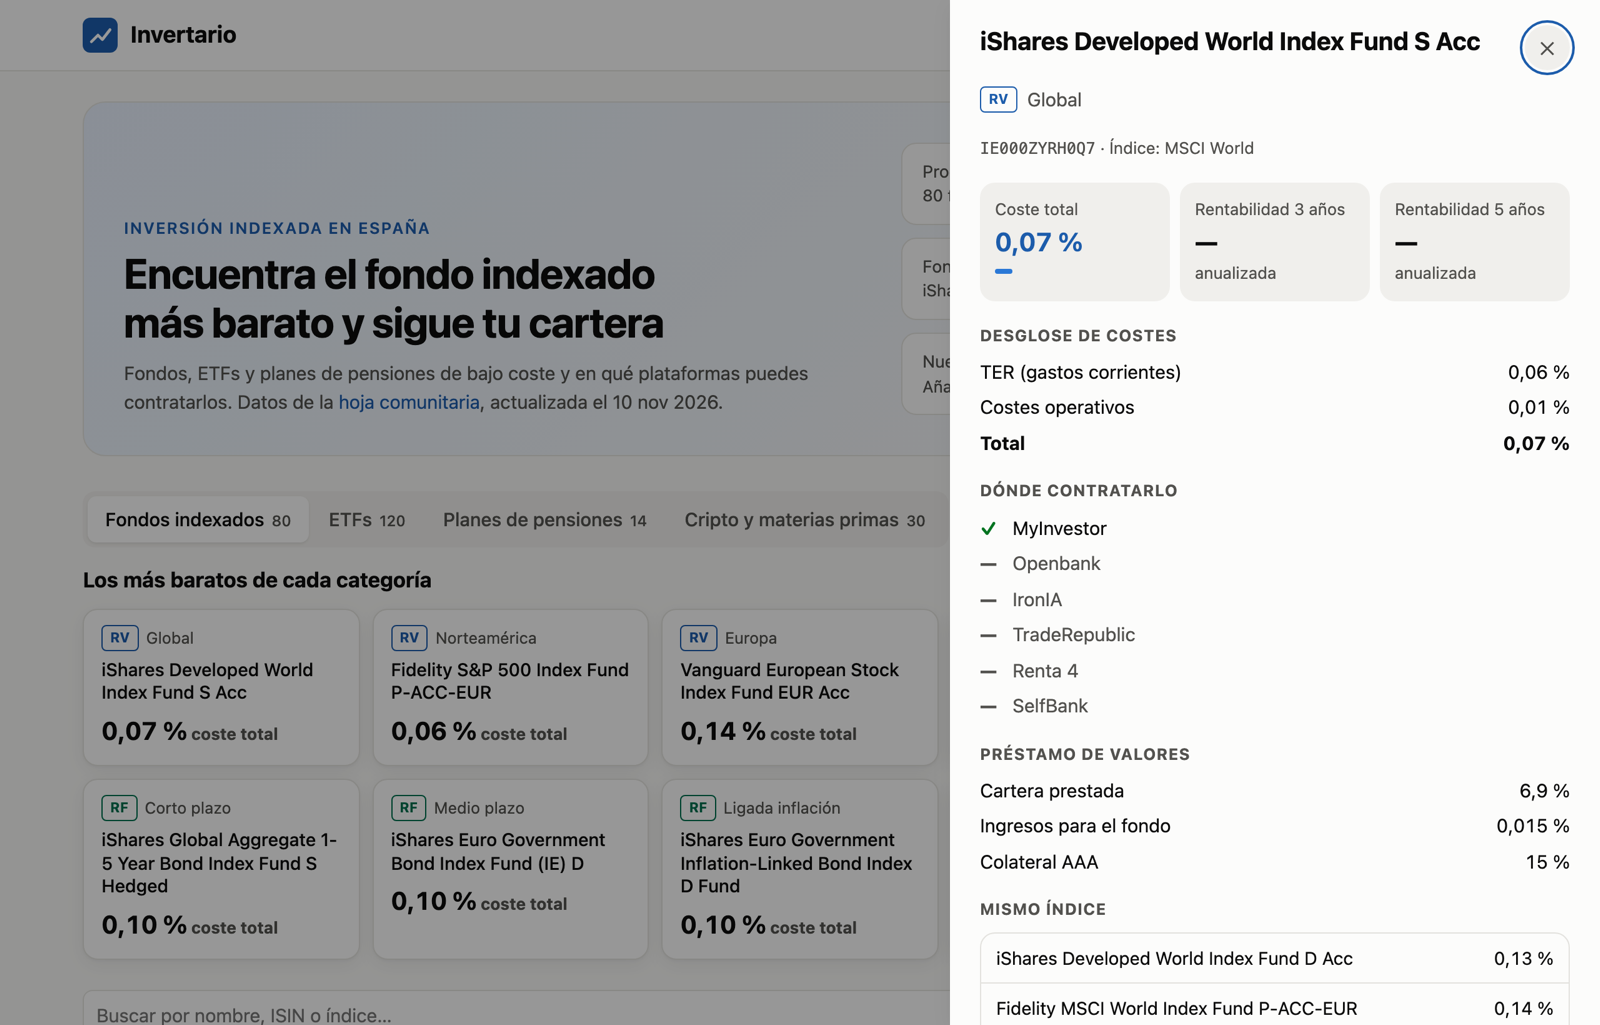
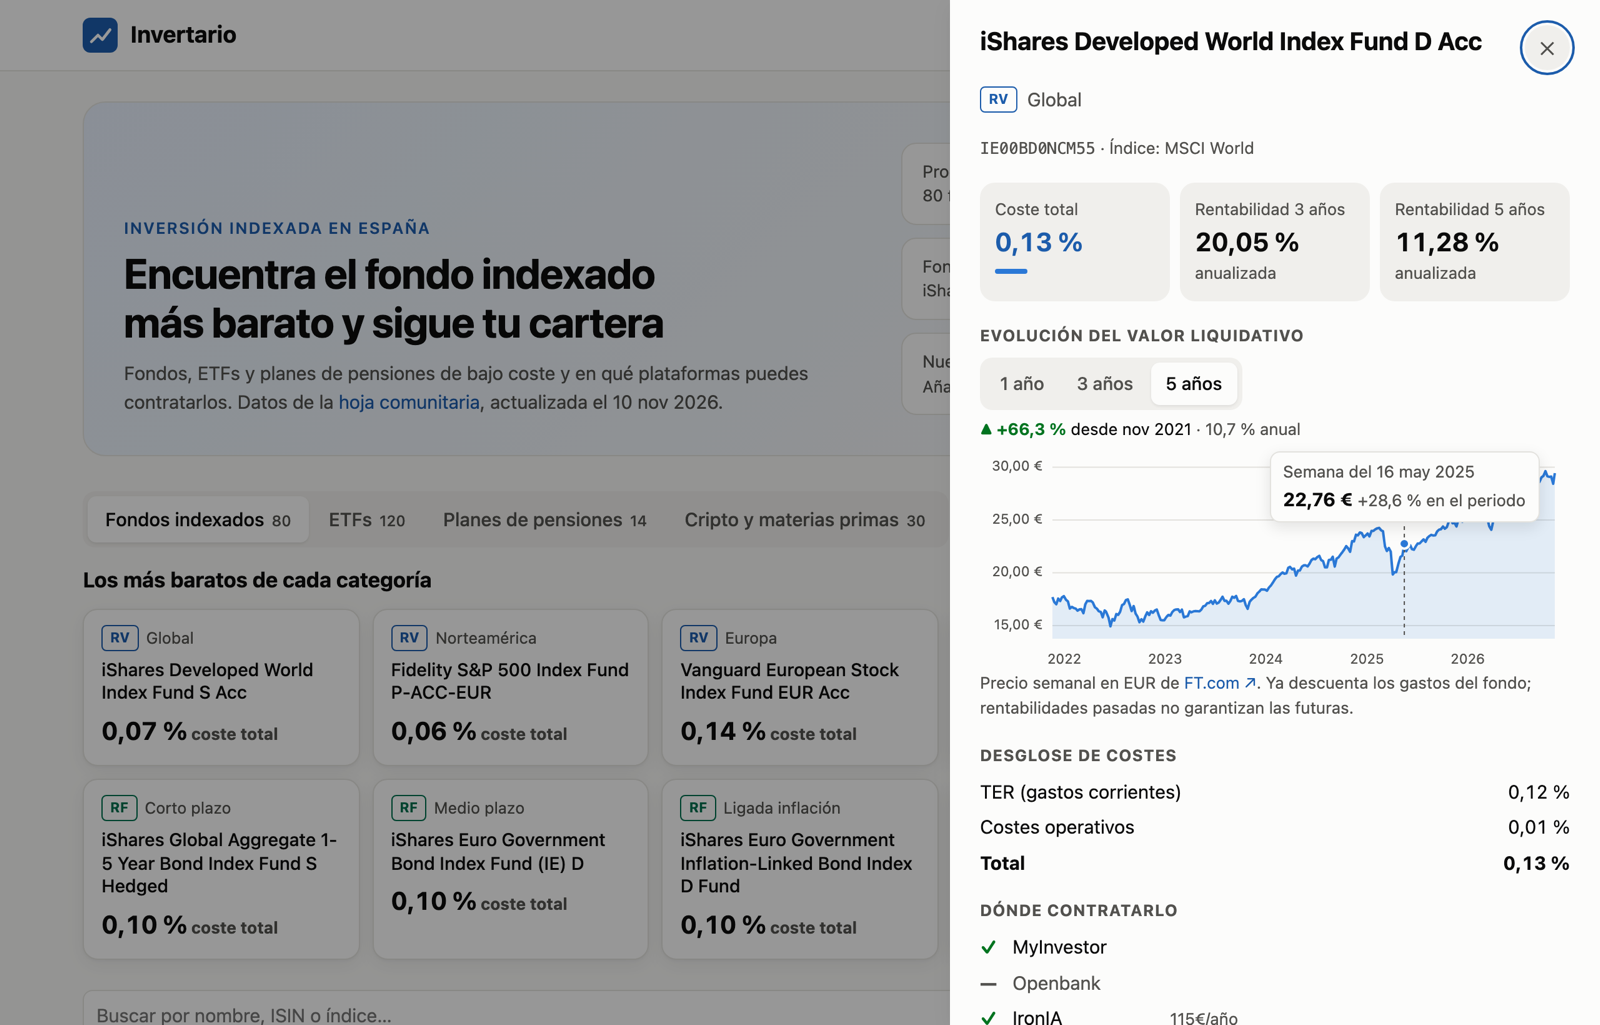
docs: new demo funds and price chart screenshots
- Demo portfolio/simulation in the UI skill use other catalog funds
- README shows the price history chart and a stock looked up by ISIN
- Stock lookup card shows "Sin comisión de gestión"; denser price axis

Claude-Session: https://claude.ai/code/session_018PZb2ADzL5aVHx3U8Hacqu

diff --git a/src/components/Catalog.tsx b/src/components/Catalog.tsx
@@ -354,9 +354,11 @@ function IsinLookup({ isin, onOpen }: { isin: string; onOpen: (p: Product) => vo
       <div className="empty isin-lookup">
         <p className="small muted">No está en el catálogo. Ya lo buscaste antes:</p>
         <button className="pick" onClick={() => onOpen(external)}>
-          <span className="pick-cat"><AssetTag p={external} /> {external.region ?? 'Sin categoría'}</span>
+          <span className="pick-cat"><AssetTag p={external} /> {external.type === 'accion' ? 'Cotiza en bolsa' : external.region ?? 'Sin categoría'}</span>
           <span className="pick-name">{external.name}</span>
-          <span className="pick-cost">{external.totalCost != null ? fmtPct(external.totalCost) : '—'}<span className="muted small"> gastos corrientes</span></span>
+          {external.type === 'accion'
+            ? <span className="pick-cost"><span className="muted small">Sin comisión de gestión</span></span>
+            : <span className="pick-cost">{external.totalCost != null ? fmtPct(external.totalCost) : '—'}<span className="muted small"> gastos corrientes</span></span>}
           <span className="badge-ext">No catalogado</span>
         </button>
       </div>

diff --git a/src/components/Charts.tsx b/src/components/Charts.tsx
@@ -323,7 +323,7 @@ export function PriceChart({ points, currency, label }: { points: PricePoint[]; 
   const path = points.map((p, i) => `${i ? 'L' : 'M'}${x(p.t).toFixed(1)},${y(p.price).toFixed(1)}`).join(' ');
   const area = `${path} L${x(t1)},${H - pad.b} L${x(t0)},${H - pad.b} Z`;
   // Round tick values (1, 2, 2.5 or 5 × 10^n) inside the plotted range.
-  const raw = (max - min) / 4, mag = 10 ** Math.floor(Math.log10(raw));
+  const raw = (max - min) / 5, mag = 10 ** Math.floor(Math.log10(raw));
   const step = [1, 2, 2.5, 5, 10].map((m) => m * mag).find((v) => v >= raw)!;
   const ticks: number[] = [];
   for (let v = Math.ceil(min / step) * step; v <= max; v += step) ticks.push(v);

diff --git a/README.md b/README.md
@@ -44,6 +44,11 @@ Todos los productos de la [hoja de cálculo mantenida por la comunidad](https://
 
 Los filtros viven en la URL, así que cualquier búsqueda se puede compartir con un enlace.
 
+<div align="center">
+<img src="docs/screenshots/accion.png" alt="Ficha de una acción buscada por ISIN, con su cotización a 5 años" width="720">
+<br><sub>Una acción buscada por su ISIN: cotización en euros y evolución a 1, 3 y 5 años.</sub>
+</div>
+
 ### 📋 Ficha y comparador
 
 <table>
